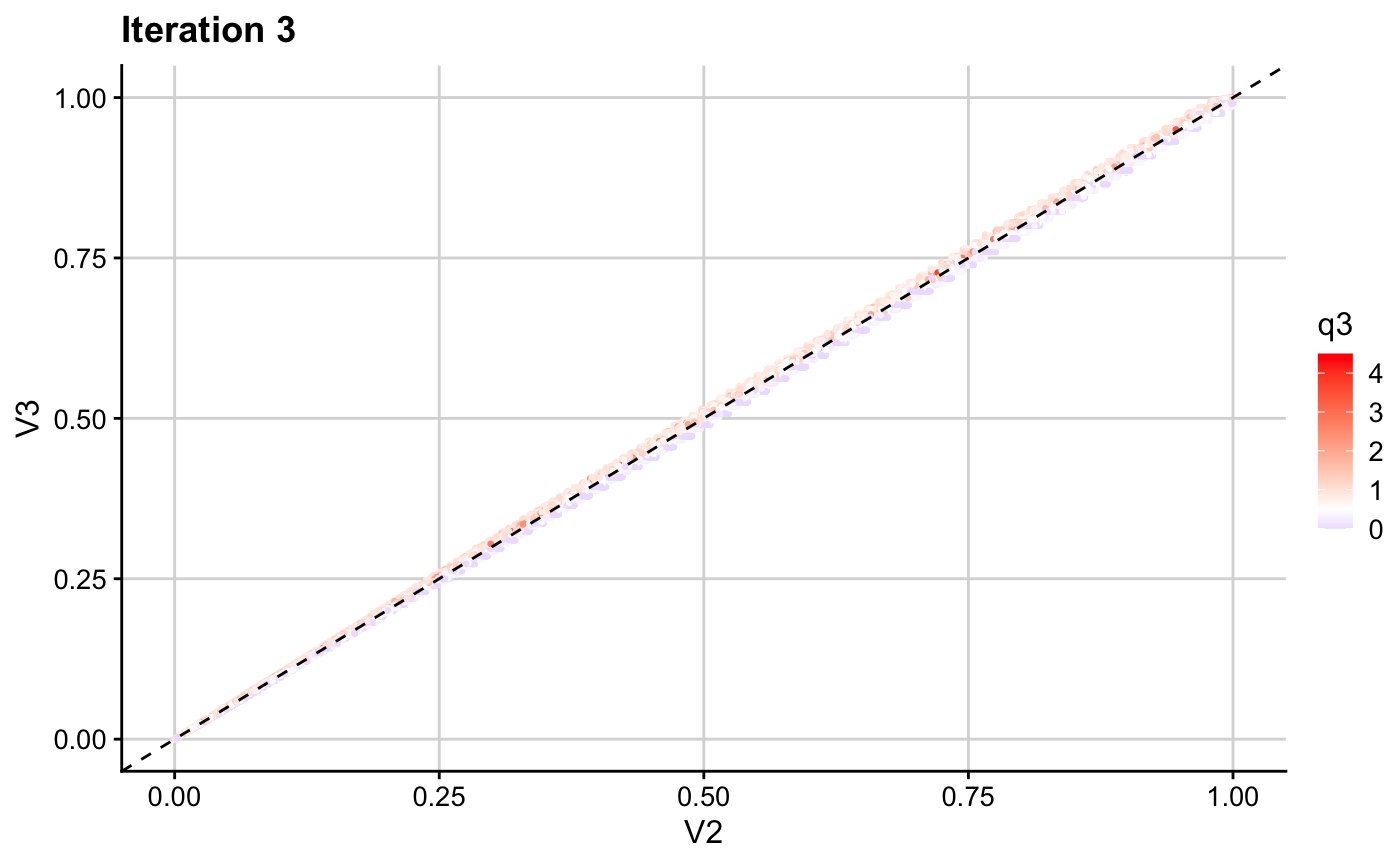
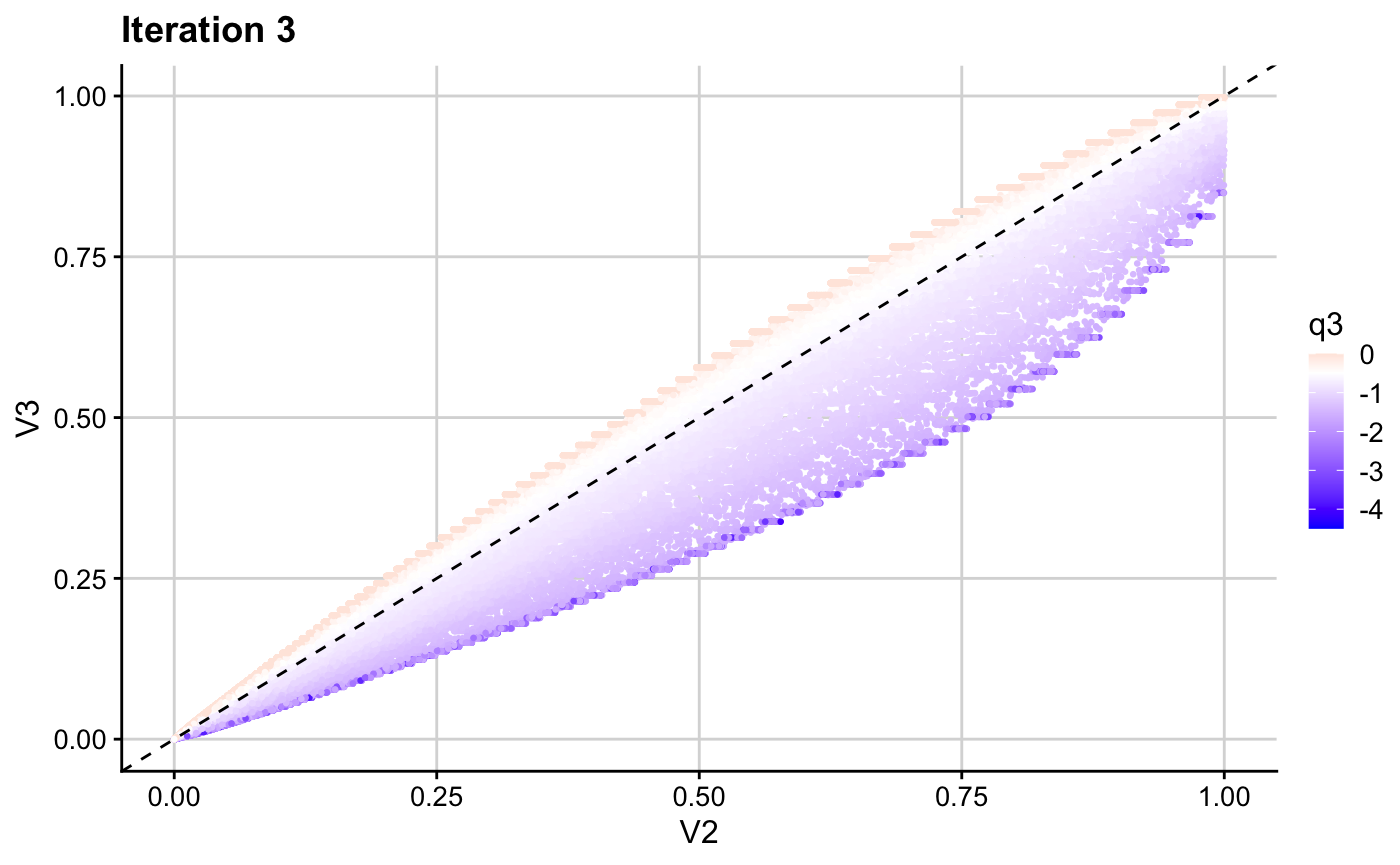
update website and add development warning to binary cfdr function

diff --git a/docs/articles/t1d_app.html b/docs/articles/t1d_app.html
@@ -64,6 +64,9 @@
       <a href="../articles/fcfdr-vignette.html">Introductory vignette</a>
     </li>
     <li>
+      <a href="../articles/t1d_app.html">T1D Application</a>
+    </li>
+    <li>
       <a href="../articles/ldak-vignette.html">Generating independent SNP set</a>
     </li>
     <li>
@@ -164,9 +167,6 @@
 <code class="sourceCode R"><span class="va">iter3_res</span> <span class="op">&lt;-</span> <span class="fu"><a href="../reference/flexible_cfdr.html">flexible_cfdr</a></span><span class="op">(</span>p <span class="op">=</span> <span class="va">v2</span>, 
                            q <span class="op">=</span> <span class="va">q3</span>, 
                            indep_index <span class="op">=</span> <span class="va">ind_snps</span><span class="op">)</span>
-<span class="co">#&gt; Warning: glm.fit: fitted rates numerically 0 occurred</span>
-<span class="co">#&gt; Warning in locfdr(c(zp_ind, -zp_ind), bre = c(kpq$x[-length(kpq$x)] +</span>
-<span class="co">#&gt; diff(kpq$x)/2, : f(z) misfit = 3.9. Rerun with increased df</span>
 
 <span class="va">v3</span> <span class="op">&lt;-</span> <span class="va">iter3_res</span><span class="op">[[</span><span class="fl">1</span><span class="op">]</span><span class="op">]</span><span class="op">$</span><span class="va">v</span></code></pre></div>
 <hr>
@@ -175,13 +175,13 @@
 <code class="sourceCode R"><span class="va">res</span> <span class="op">&lt;-</span> <span class="fu"><a href="https://rdrr.io/r/base/data.frame.html">data.frame</a></span><span class="op">(</span><span class="va">orig_p</span>, q1 <span class="op">=</span> <span class="va">iter1_res</span><span class="op">[[</span><span class="fl">1</span><span class="op">]</span><span class="op">]</span><span class="op">$</span><span class="va">q</span>, q2 <span class="op">=</span> <span class="fu"><a href="https://rdrr.io/r/base/factor.html">as.factor</a></span><span class="op">(</span><span class="va">iter2_res</span><span class="op">$</span><span class="va">q</span><span class="op">)</span>, q3 <span class="op">=</span> <span class="va">iter3_res</span><span class="op">[[</span><span class="fl">1</span><span class="op">]</span><span class="op">]</span><span class="op">$</span><span class="va">q</span>, <span class="va">v1</span>, <span class="va">v2</span>, <span class="va">v3</span><span class="op">)</span>
 
 <span class="fu"><a href="https://rdrr.io/r/utils/head.html">head</a></span><span class="op">(</span><span class="va">res</span><span class="op">)</span>
-<span class="co">#&gt;      orig_p     q1 q2        q3        v1           v2           v3</span>
-<span class="co">#&gt; 1 0.8245356 0.1553  0 0.4678263 0.7587319 5.633699e-06 5.590807e-06</span>
-<span class="co">#&gt; 2 0.3503642 0.6732  0 0.5126619 0.4137071 3.785206e-01 3.789268e-01</span>
-<span class="co">#&gt; 3 0.1048239 0.5976  0 0.3536032 0.1368236 9.090646e-01 9.033876e-01</span>
-<span class="co">#&gt; 4 0.9821215 0.8109  0 0.0000000 0.9930016 7.273575e-01 7.188404e-01</span>
-<span class="co">#&gt; 5 0.4549943 0.7110  0 0.0000000 0.5224101 3.464855e-01 3.368882e-01</span>
-<span class="co">#&gt; 6 0.4395651 0.3508  0 0.6409904 0.4457289 3.098237e-02 3.163994e-02</span></code></pre></div>
+<span class="co">#&gt;      orig_p     q1 q2         q3        v1        v2        v3</span>
+<span class="co">#&gt; 1 0.8245356 0.1553  0 -0.4678263 0.7587319 0.7959398 0.8238263</span>
+<span class="co">#&gt; 2 0.3503642 0.6732  0 -0.5126619 0.4137071 0.4414778 0.4650694</span>
+<span class="co">#&gt; 3 0.1048239 0.5976  0 -0.3536032 0.1368236 0.1472634 0.1730070</span>
+<span class="co">#&gt; 4 0.9821215 0.8109  0  0.0000000 0.9930016 0.9946070 0.9973024</span>
+<span class="co">#&gt; 5 0.4549943 0.7110  0  0.0000000 0.5224101 0.5455566 0.6151792</span>
+<span class="co">#&gt; 6 0.4395651 0.3508  0 -0.6409904 0.4457289 0.4682475 0.4687157</span></code></pre></div>
 <hr>
 <p>We inspect the resultant <span class="math inline">\(v\)</span>-values after each iteration by plotting these against the values used as <code>p</code> in that iteration.</p>
 <div class="sourceCode" id="cb8"><pre class="downlit sourceCode r">
@@ -215,20 +215,20 @@
 <code class="sourceCode R"><span class="va">fdr_thr</span> <span class="op">&lt;-</span> <span class="fl">4</span><span class="op">*</span><span class="fl">10</span><span class="op">^</span><span class="op">-</span><span class="fl">6</span>
 
 <span class="fu"><a href="https://rdrr.io/r/base/length.html">length</a></span><span class="op">(</span><span class="fu"><a href="https://rdrr.io/r/base/which.html">which</a></span><span class="op">(</span><span class="va">v3</span> <span class="op">&lt;</span> <span class="va">fdr_thr</span> <span class="op">&amp;</span> <span class="va">orig_p</span> <span class="op">&gt;</span> <span class="va">fdr_thr</span><span class="op">)</span><span class="op">)</span>
-<span class="co">#&gt; [1] 2285</span>
+<span class="co">#&gt; [1] 207</span>
 
 <span class="fu"><a href="https://rdrr.io/r/stats/median.html">median</a></span><span class="op">(</span><span class="va">T1D_df</span><span class="op">$</span><span class="va">RA_p</span><span class="op">[</span><span class="fu"><a href="https://rdrr.io/r/base/which.html">which</a></span><span class="op">(</span><span class="va">v3</span> <span class="op">&lt;</span> <span class="va">fdr_thr</span> <span class="op">&amp;</span> <span class="va">orig_p</span> <span class="op">&gt;</span> <span class="va">fdr_thr</span><span class="op">)</span><span class="op">]</span><span class="op">)</span>
-<span class="co">#&gt; [1] 0.4293</span>
+<span class="co">#&gt; [1] 0.004226</span>
 <span class="fu"><a href="https://rdrr.io/r/stats/median.html">median</a></span><span class="op">(</span><span class="va">T1D_df</span><span class="op">$</span><span class="va">RA_p</span><span class="op">)</span>
 <span class="co">#&gt; [1] 0.4228</span>
 
 <span class="fu"><a href="https://rdrr.io/r/base/mean.html">mean</a></span><span class="op">(</span><span class="va">T1D_df</span><span class="op">$</span><span class="va">DGF_ENCODE</span><span class="op">[</span><span class="fu"><a href="https://rdrr.io/r/base/which.html">which</a></span><span class="op">(</span><span class="va">v3</span> <span class="op">&lt;</span> <span class="va">fdr_thr</span> <span class="op">&amp;</span> <span class="va">orig_p</span> <span class="op">&gt;</span> <span class="va">fdr_thr</span><span class="op">)</span><span class="op">]</span><span class="op">)</span>
-<span class="co">#&gt; [1] 0.2420131</span>
+<span class="co">#&gt; [1] 0.3140097</span>
 <span class="fu"><a href="https://rdrr.io/r/base/mean.html">mean</a></span><span class="op">(</span><span class="va">T1D_df</span><span class="op">$</span><span class="va">DGF_ENCODE</span><span class="op">)</span>
 <span class="co">#&gt; [1] 0.2347241</span>
 
 <span class="fu"><a href="https://rdrr.io/r/stats/median.html">median</a></span><span class="op">(</span><span class="va">T1D_df</span><span class="op">$</span><span class="va">Th_H3K27ac</span><span class="op">[</span><span class="fu"><a href="https://rdrr.io/r/base/which.html">which</a></span><span class="op">(</span><span class="va">v3</span> <span class="op">&lt;</span> <span class="va">fdr_thr</span> <span class="op">&amp;</span> <span class="va">orig_p</span> <span class="op">&gt;</span> <span class="va">fdr_thr</span><span class="op">)</span><span class="op">]</span><span class="op">)</span>
-<span class="co">#&gt; [1] 0.63101</span>
+<span class="co">#&gt; [1] 1.34004</span>
 <span class="fu"><a href="https://rdrr.io/r/stats/median.html">median</a></span><span class="op">(</span><span class="va">T1D_df</span><span class="op">$</span><span class="va">Th_H3K27ac</span><span class="op">)</span>
 <span class="co">#&gt; [1] 0.63626</span></code></pre></div>
   </div>

diff --git a/docs/index.html b/docs/index.html
@@ -64,6 +64,9 @@
       <a href="articles/fcfdr-vignette.html">Introductory vignette</a>
     </li>
     <li>
+      <a href="articles/t1d_app.html">T1D Application</a>
+    </li>
+    <li>
       <a href="articles/ldak-vignette.html">Generating independent SNP set</a>
     </li>
     <li>
@@ -117,7 +120,7 @@
 <div id="abstract" class="section level2">
 <h2 class="hasAnchor">
 <a href="#abstract" class="anchor"></a>Abstract</h2>
-<p>Genome-wide association studies (GWAS) have identified thousands of genetic variants that are associated with complex traits. However, a stringent significance threshold is required to identify robust genetic associations. Leveraging relevant auxiliary data has the potential to boost statistical power to exceed the significance threshold. Particularly, abundant pleiotropy and the non-random distribution of SNPs across various functional categories suggests that leveraging GWAS test statistics from related traits and/or functional genomic data may boost GWAS discovery. While type 1 error rate control has become standard in GWAS, control of the false discovery rate (FDR) can be a more powerful approach as sample sizes increase and many associations are expected in each study. The conditional false discovery rate (cFDR) extends the standard FDR framework by conditioning on auxiliary data to call significant associations, but current implementations are restricted to auxiliary data satisfying specific parametric distributions. We relax the distributional assumptions, enabling an extension of the cFDR framework that supports auxiliary data from any continuous distribution (“Flexible cFDR”). Our method is iterative, whereby additional layers of auxiliary data can be leveraged in turn. Through simulations we show that flexible cFDR increases sensitivity whilst controlling FDR after one or several iterations. We further demonstrate its practical potential through application to an asthma GWAS, leveraging various functional data to find additional genetic associations for asthma which we validated in the larger UK Biobank data resource.</p>
+<p>Genome-wide association studies (GWAS) have identified thousands of genetic variants that are associated with complex traits. However, a stringent significance threshold is required to identify robust genetic associations. Leveraging relevant auxiliary covariates has the potential to boost statistical power to exceed the significance threshold. Particularly, abundant pleiotropy and the non-random distribution of SNPs across various functional categories suggests that leveraging GWAS test statistics from related traits and/or functional genomic data may boost GWAS discovery. While type 1 error rate control has become standard in GWAS, control of the false discovery rate can be a more powerful approach. The conditional false discovery rate (cFDR) extends the standard FDR framework by conditioning on auxiliary data to call significant associations, but current implementations are restricted to auxiliary data satisfying specific parametric distributions, typically GWAS <span class="math inline"><em>p</em></span>-values for related traits. We relax these distributional assumptions, enabling an extension of the cFDR framework that supports auxiliary covariates from arbitrary continuous distributions (“Flexible cFDR”). Our method can be applied iteratively, thereby supporting multi-dimensional covariate data. Through simulations we show that Flexible cFDR increases sensitivity whilst controlling FDR after one or several iterations. We further demonstrate its practical potential through application to an asthma GWAS, leveraging various functional genomic data to find additional genetic associations for asthma, which we validate in the larger, independent, UK Biobank data resource.</p>
 </div>
 </div>
   </div>

diff --git a/docs/reference/T1D_df.html b/docs/reference/T1D_df.html
@@ -109,6 +109,9 @@ in naive CD4+ T helper cells (Th_H3K27ac), RA GWAS p-value (RA_p), ldak weight, 
       <a href="../articles/fcfdr-vignette.html">Introductory vignette</a>
     </li>
     <li>
+      <a href="../articles/t1d_app.html">T1D Application</a>
+    </li>
+    <li>
       <a href="../articles/ldak-vignette.html">Generating independent SNP set</a>
     </li>
     <li>

diff --git a/docs/articles/index.html b/docs/articles/index.html
@@ -105,6 +105,9 @@
       <a href="../articles/fcfdr-vignette.html">Introductory vignette</a>
     </li>
     <li>
+      <a href="../articles/t1d_app.html">T1D Application</a>
+    </li>
+    <li>
       <a href="../articles/ldak-vignette.html">Generating independent SNP set</a>
     </li>
     <li>

diff --git a/docs/reference/binary_cfdr.html b/docs/reference/binary_cfdr.html
@@ -106,6 +106,9 @@
       <a href="../articles/fcfdr-vignette.html">Introductory vignette</a>
     </li>
     <li>
+      <a href="../articles/t1d_app.html">T1D Application</a>
+    </li>
+    <li>
       <a href="../articles/ldak-vignette.html">Generating independent SNP set</a>
     </li>
     <li>

diff --git a/docs/reference/corr_plot.html b/docs/reference/corr_plot.html
@@ -106,6 +106,9 @@
       <a href="../articles/fcfdr-vignette.html">Introductory vignette</a>
     </li>
     <li>
+      <a href="../articles/t1d_app.html">T1D Application</a>
+    </li>
+    <li>
       <a href="../articles/ldak-vignette.html">Generating independent SNP set</a>
     </li>
     <li>

diff --git a/docs/reference/flexible_cfdr.html b/docs/reference/flexible_cfdr.html
@@ -106,6 +106,9 @@
       <a href="../articles/fcfdr-vignette.html">Introductory vignette</a>
     </li>
     <li>
+      <a href="../articles/t1d_app.html">T1D Application</a>
+    </li>
+    <li>
       <a href="../articles/ldak-vignette.html">Generating independent SNP set</a>
     </li>
     <li>

diff --git a/docs/reference/index.html b/docs/reference/index.html
@@ -105,6 +105,9 @@
       <a href="../articles/fcfdr-vignette.html">Introductory vignette</a>
     </li>
     <li>
+      <a href="../articles/t1d_app.html">T1D Application</a>
+    </li>
+    <li>
       <a href="../articles/ldak-vignette.html">Generating independent SNP set</a>
     </li>
     <li>

diff --git a/docs/reference/log10pv_plot.html b/docs/reference/log10pv_plot.html
@@ -106,6 +106,9 @@
       <a href="../articles/fcfdr-vignette.html">Introductory vignette</a>
     </li>
     <li>
+      <a href="../articles/t1d_app.html">T1D Application</a>
+    </li>
+    <li>
       <a href="../articles/ldak-vignette.html">Generating independent SNP set</a>
     </li>
     <li>

diff --git a/docs/reference/match_ind_maf.html b/docs/reference/match_ind_maf.html
@@ -106,6 +106,9 @@
       <a href="../articles/fcfdr-vignette.html">Introductory vignette</a>
     </li>
     <li>
+      <a href="../articles/t1d_app.html">T1D Application</a>
+    </li>
+    <li>
       <a href="../articles/ldak-vignette.html">Generating independent SNP set</a>
     </li>
     <li>

diff --git a/docs/reference/pv_plot.html b/docs/reference/pv_plot.html
@@ -106,6 +106,9 @@
       <a href="../articles/fcfdr-vignette.html">Introductory vignette</a>
     </li>
     <li>
+      <a href="../articles/t1d_app.html">T1D Application</a>
+    </li>
+    <li>
       <a href="../articles/ldak-vignette.html">Generating independent SNP set</a>
     </li>
     <li>

diff --git a/docs/reference/stratified_qqplot.html b/docs/reference/stratified_qqplot.html
@@ -106,6 +106,9 @@
       <a href="../articles/fcfdr-vignette.html">Introductory vignette</a>
     </li>
     <li>
+      <a href="../articles/t1d_app.html">T1D Application</a>
+    </li>
+    <li>
       <a href="../articles/ldak-vignette.html">Generating independent SNP set</a>
     </li>
     <li>
